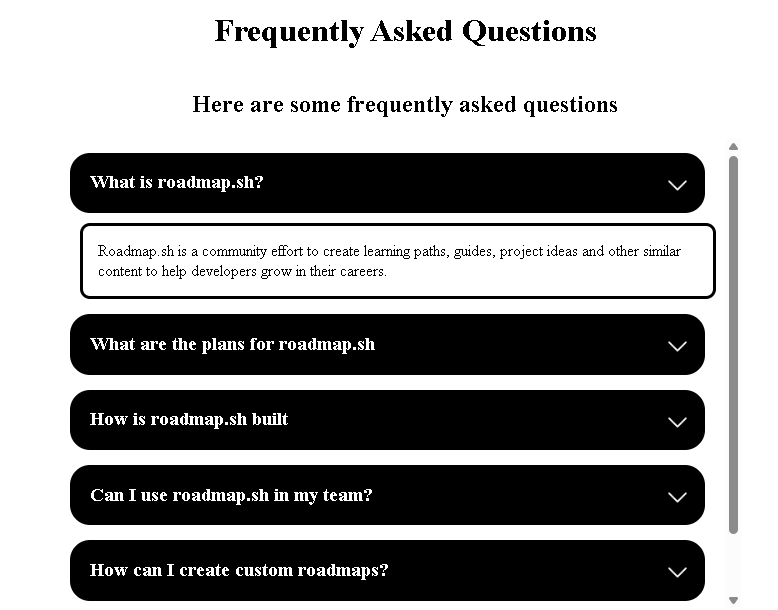
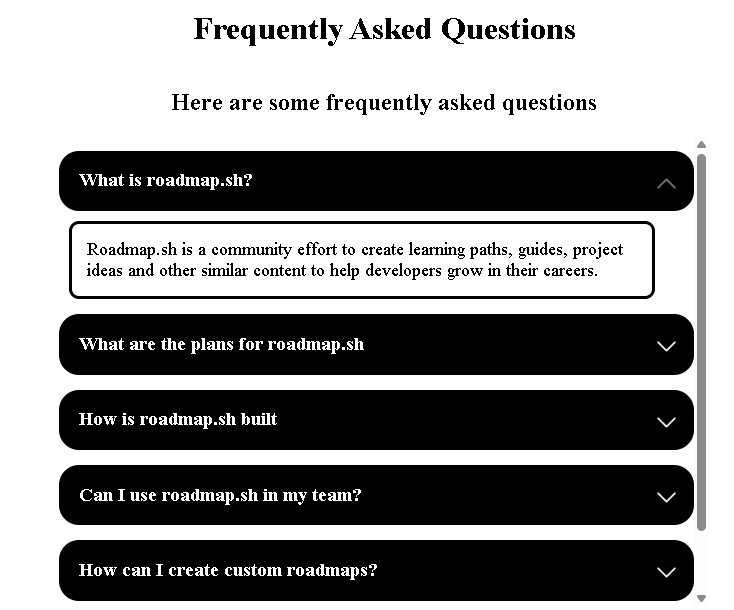
Enhancement

diff --git a/Road_map_projects(Frontend)/Accordion/index.js b/Road_map_projects(Frontend)/Accordion/index.js
@@ -60,8 +60,10 @@ document.querySelectorAll(".expand_image").forEach((img) => {
         // Toggle the clicked one
         if (answerSection.style.display === "none") {
             answerSection.style.display = "block";
+            img.style.transform= "rotateX(180deg)";
         } else {
             answerSection.style.display = "none";
+            img.style.transform= "rotateX(0deg)";
         }
     });
 });

diff --git a/Road_map_projects(Frontend)/Accordion/style.css b/Road_map_projects(Frontend)/Accordion/style.css
@@ -33,8 +33,9 @@
 }
 .answers{
     margin: 10px;
-    width: 600px;
+    width: 550px;
     border-style: solid;
     border-radius: 10px;
     padding: 15px;
+    font-size: large;
 }
